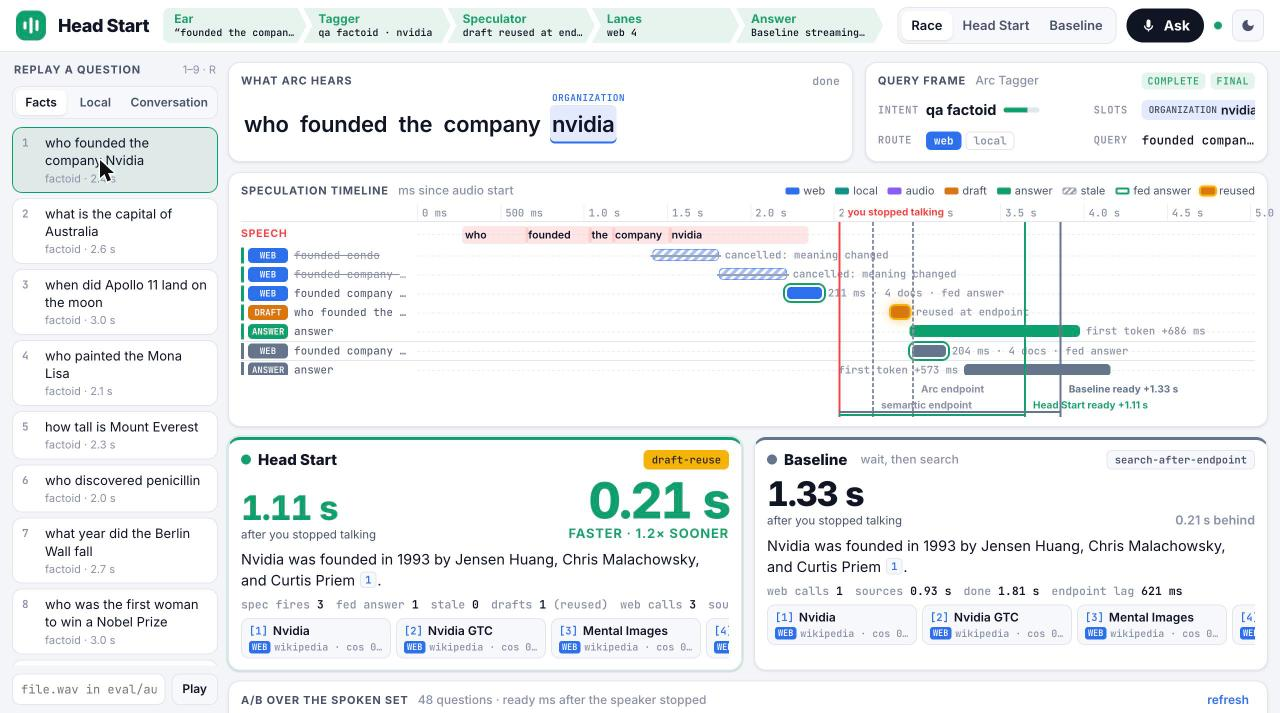
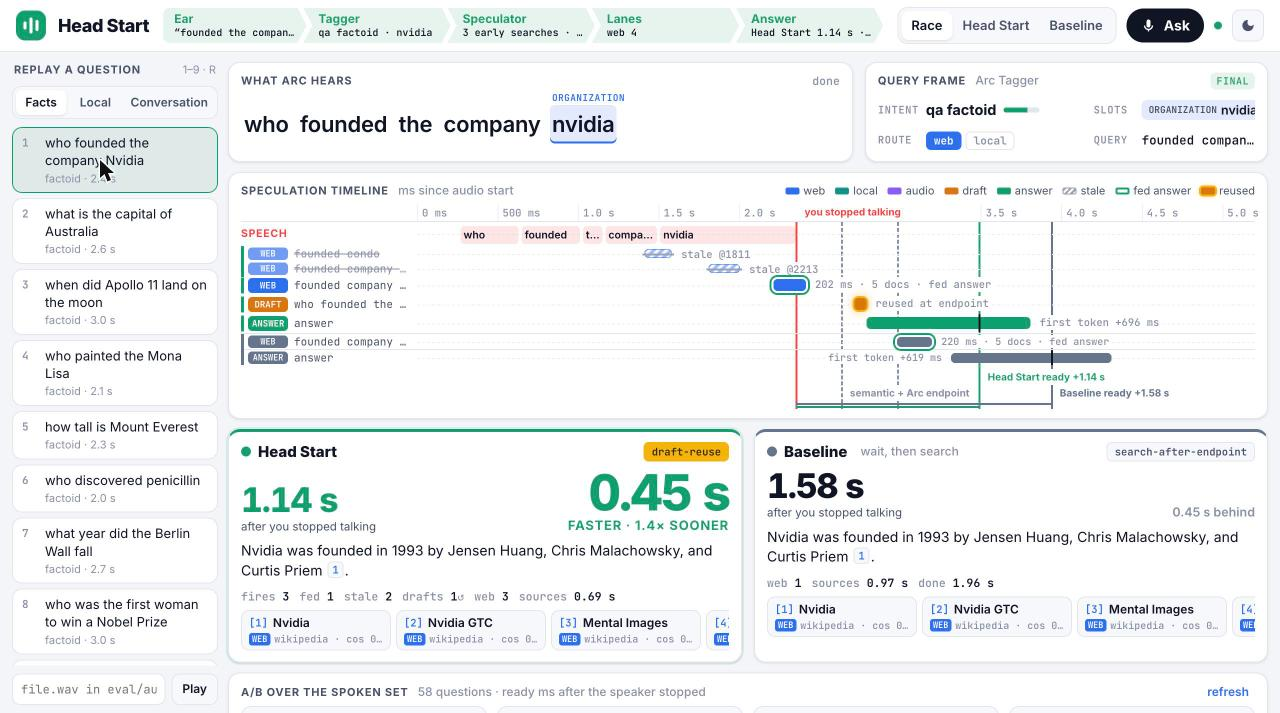
Demo media re-captured on final code: GIF (q01, q27, conv01, local_05), fresh stills, media notes
Replaces headstart_race.gif, q01/q27/conv01 stills; adds local05_moment_chips.jpg (▶ mm:ss chips) and
glitch_final_frame_placeholders.png. Removes glitch_q27_slot_still_canada.png and glitch_timeline_label_overlap.png
(both fixed). PITCH.md: media list and an honest note on live-replay variance (8 replays: 4 wins, 2 ties, 2 losses).

diff --git a/docs/PITCH.md b/docs/PITCH.md
@@ -88,7 +88,15 @@ mic → ear: Arc (on-device streaming ASR, self-revising words) · or Deepgram (
 - **The policy is simulated before we spend real calls [PROG]:** a virtual-clock simulator replays 51 recorded Arc
   traces through the real speculator. It predicted the real p50 to within **3.9 %** (45 ms), and its paired saving
   was 412 ms against 398 ms measured.
-- Demo capture: `docs/media/headstart_race.gif`.
+- Demo capture (final code, live Race replays): `docs/media/headstart_race.gif`, which runs q01, then q27, then
+  conv01, then local_05. Stills:
+  - `q01_race_nvidia.jpg`: 1.14 vs 1.58 s.
+  - `q27_correction_canada_turkey.jpg`: 1.54 vs 1.80 s.
+  - `conv01_memory_chip.jpg`: memory "it → Nvidia", 1.13 vs 1.48 s.
+  - `local05_moment_chips.jpg`: 0.70 vs 1.42 s, with ▶ mm:ss moment chips.
+
+  These are single live replays, not the benchmark. Repeated replays varied: across 8 replays, Head Start was
+  behind twice and roughly tied twice. See the limitations below.
 
 ## Slide 5: Why now, and the impact
 - **Why now:** three things only recently became true at the same time.
@@ -185,5 +193,11 @@ voice stack, so it adds to them rather than replacing them.
   - The moments index uses third-party YouTube audio, which needs rights clearance before any public showing [IDX].
 - **One machine:** every timing comes from a single M3 Pro laptop, with the two modes run in alternating order for
   each question.
-- **Media:** the screenshots in `docs/media/` predate the UI glitch fixes. The q27 shot still shows the
-  corrected-away "PLACE canada" slot.
+- **Live replays vary more than the benchmark.** On the final code (20:20), I ran 8 Race replays:
+  - Head Start won 4 clearly.
+  - 2 were dead heats: q01 at 1.98 vs 1.93 s, and q27 at 1.57 vs 1.63 s.
+  - Head Start lost 2: q27 at 2.23 vs 1.88 s, and conv01 at 1.49 vs 1.33 s.
+
+  In both losses, the answer model's first token took longer on the Head Start side (+1583 ms and +880 ms). In those
+  replays the answer started only at Arc's endpoint, because the semantic endpoint did not fire. If a replay ties on
+  stage, replay it again, or use local_05, which won by 0.71 s.
